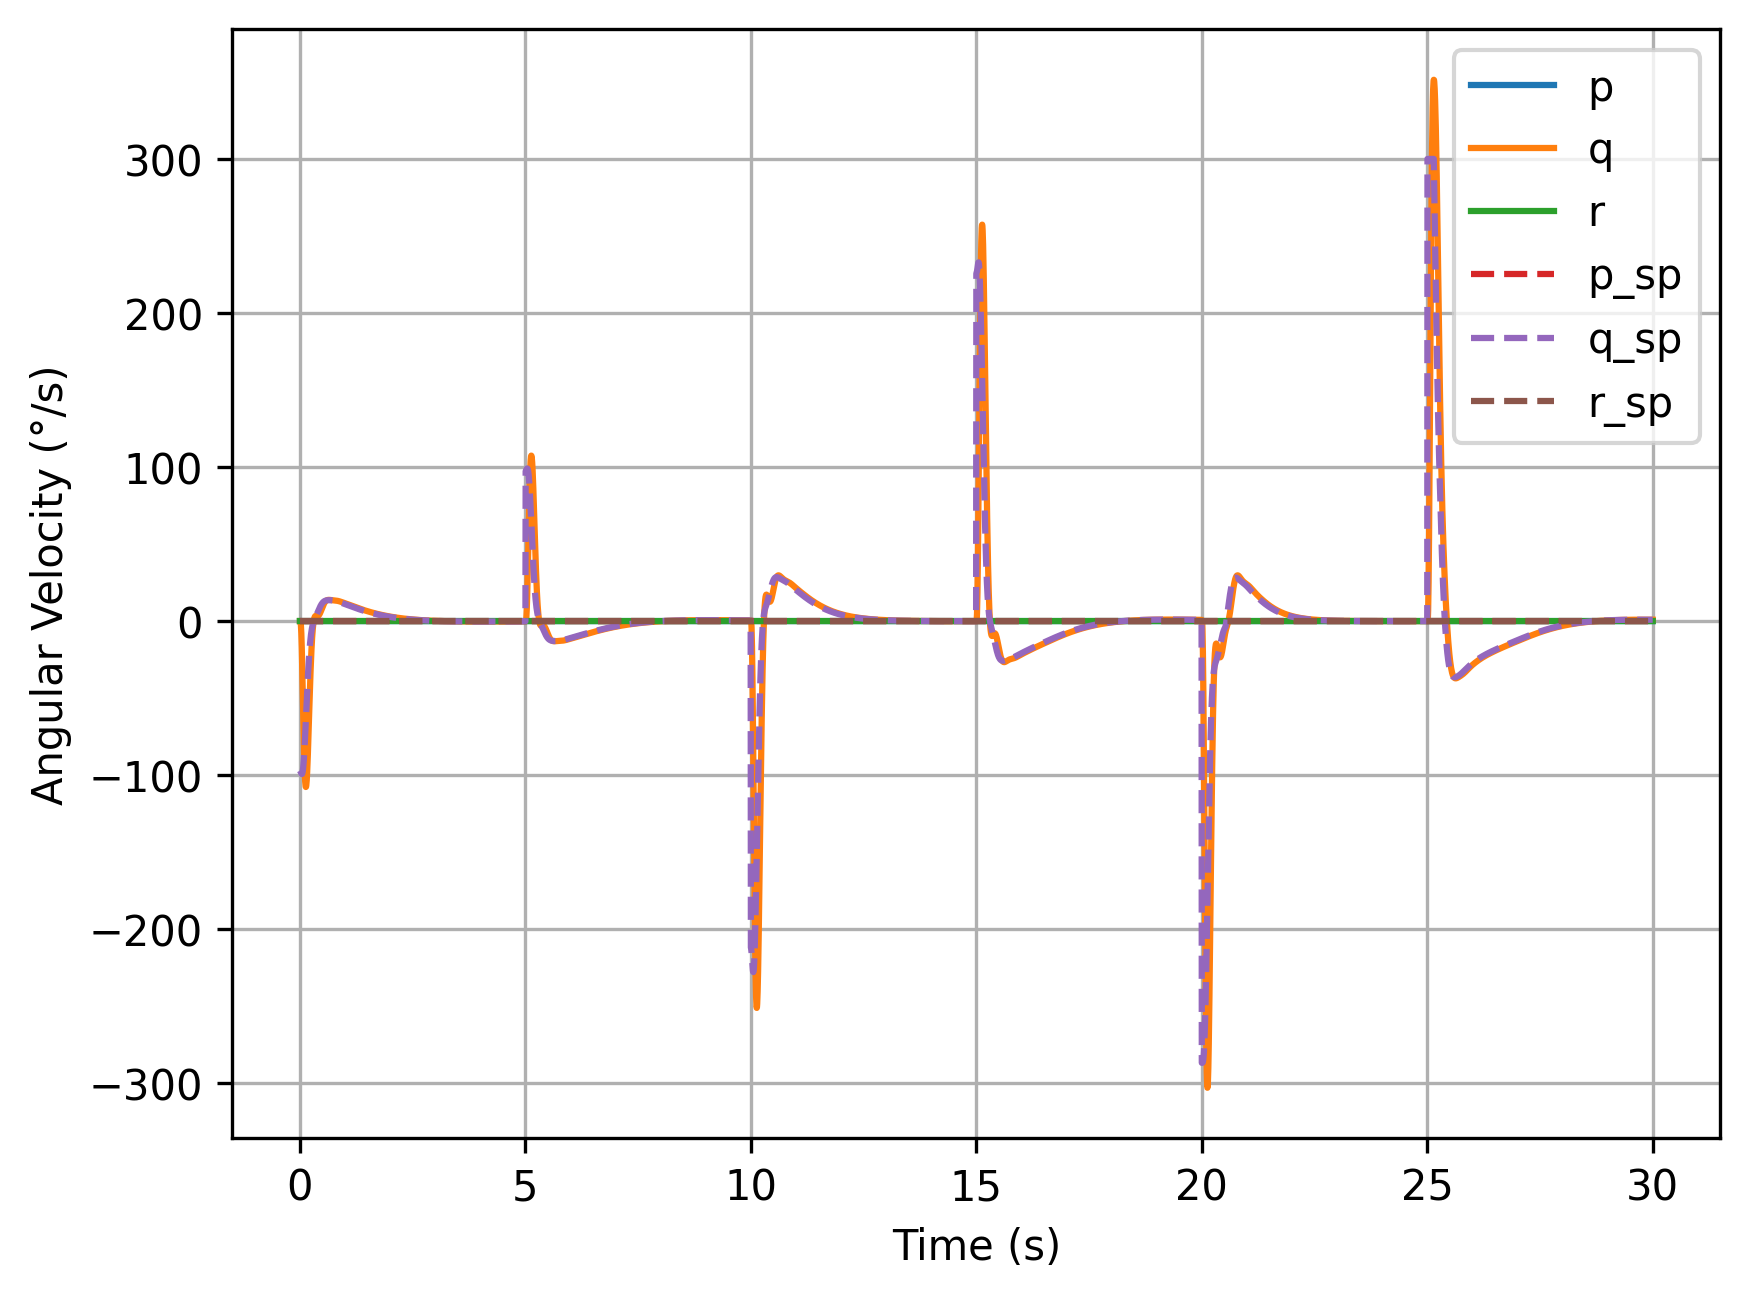
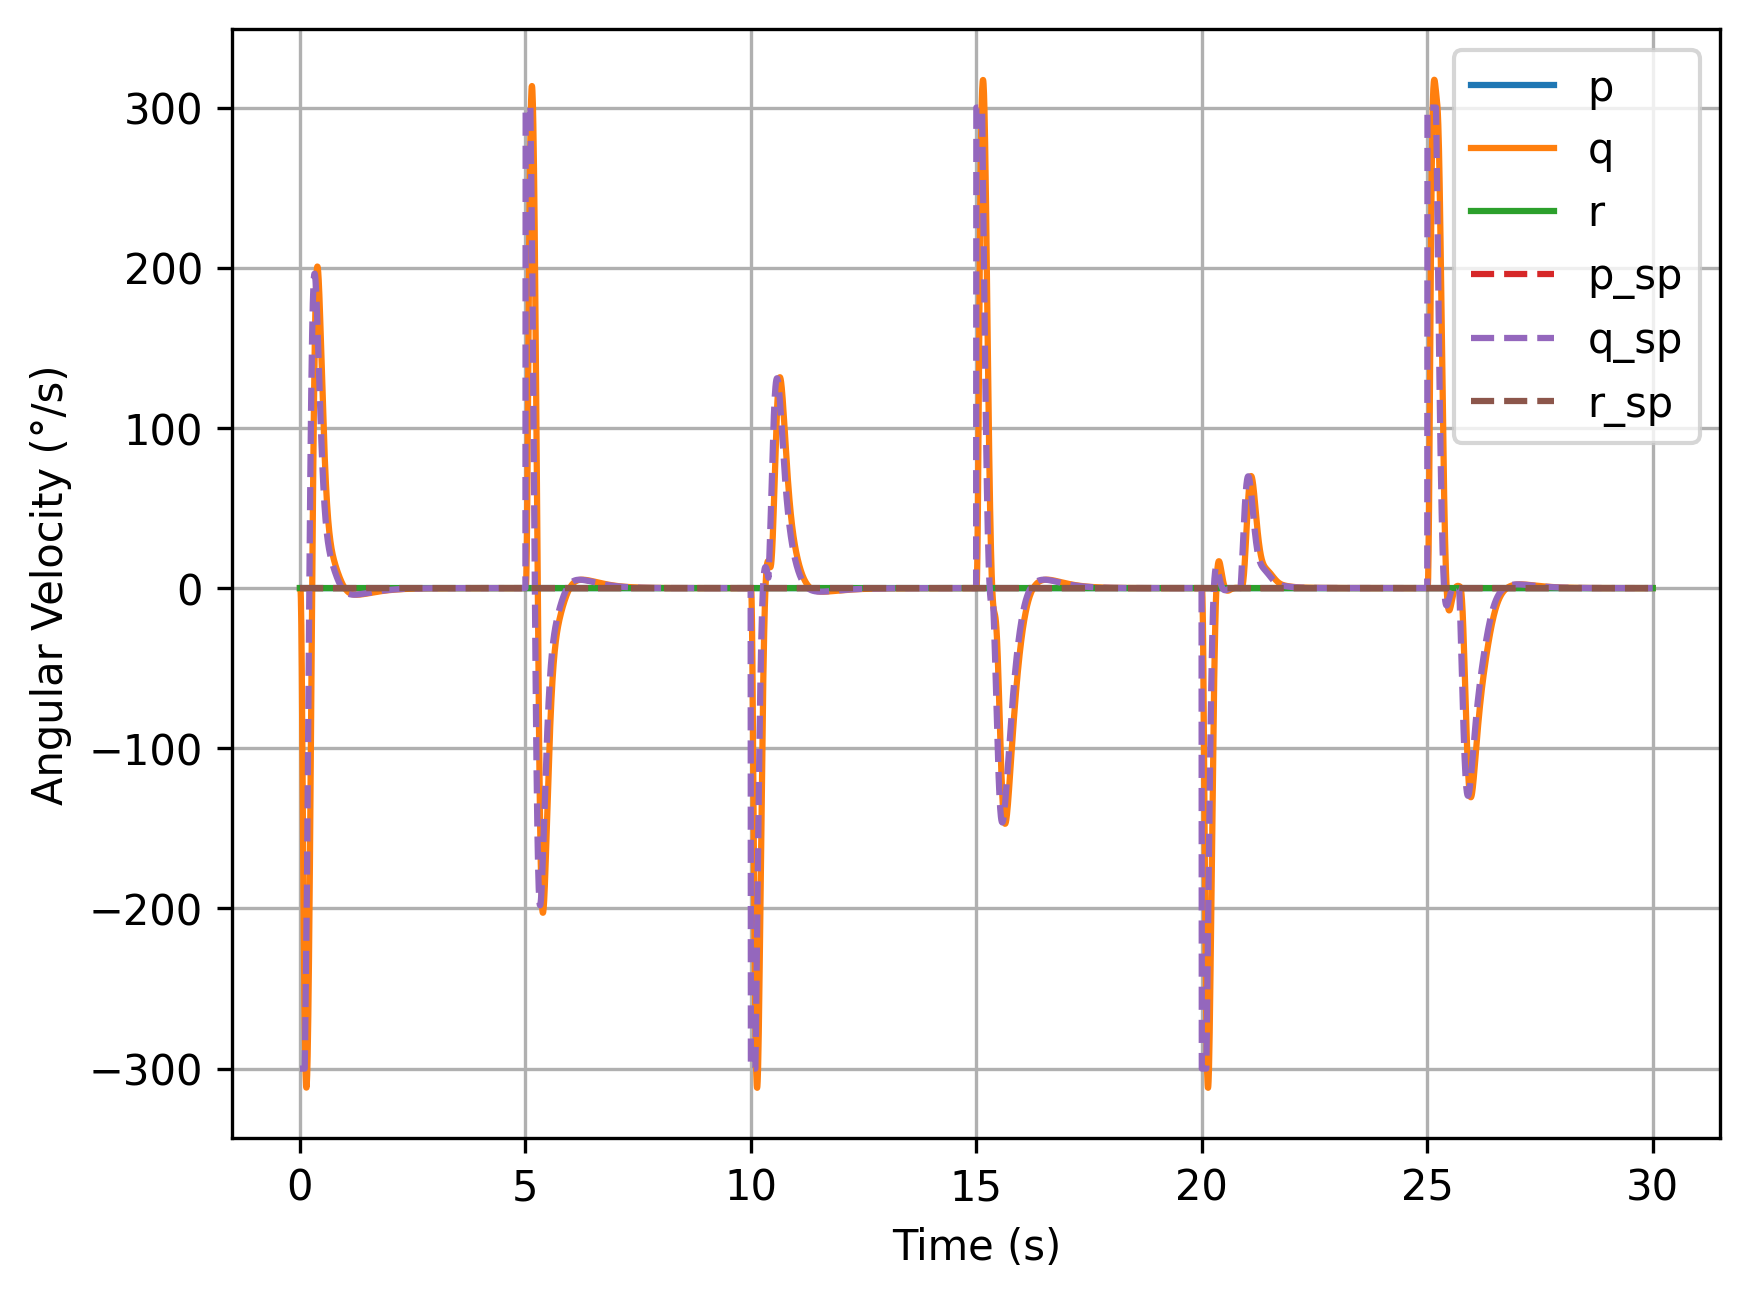
微调 action门控阈值

diff --git a/px4Env.py b/px4Env.py
@@ -72,7 +72,7 @@ class QuadcopterEnv(gym.Env):
 
         # ==================== 动作空间模式（直接式 vs 增量式） ====================
         self.enable_smooth_transition = True   # train时不用Smooth，测试时用Smooth过渡
-        self.alpha = 0.8                        # EMA平滑系数（仅用于平滑过渡，不影响最终收敛）
+        self.alpha = 0.1                       # EMA平滑系数（0:无平滑，1:强平滑）
         
         # 奖励缩放因子
         self.reward_scale = 0.01 #将奖励从[-10000,0]缩放到[-100,0]
@@ -130,8 +130,8 @@ class QuadcopterEnv(gym.Env):
             W_pid_change=0.0,   #1.0,   
         )
         #  速度跟踪成功阈值
-        self.vel_tracking_excellent_threshold = 0.2   # m/s（精确跟踪）
-        self.vel_tracking_good_threshold = 0.5        # m/s（良好跟踪）
+        self.vel_tracking_excellent_threshold = 0.1   # m/s（精确跟踪）
+        self.vel_tracking_good_threshold = 0.3        # m/s（良好跟踪）
         self.vel_tracking_poor_threshold = 1.0        # m/s（较差跟踪）
 
         #  分档奖励系数
@@ -206,9 +206,9 @@ class QuadcopterEnv(gym.Env):
         # ==================== 基线PID参数（初始化为中值，并应用到ctrl） ====================
         self.pid_K_prev_vec = np.array([
             1.0, 0.8,                   # pos_P_gains: Pxy, Pz
-            12, 8.5,                   # vel_P_gains: Pxydot, Pzdot
+            7, 8.5,                   # vel_P_gains: Pxydot, Pzdot
             10.0, 1.6,                  # vel_I_gains: Ixydot, Izdot
-            1.5, 1.0,                  # vel_D_gains: Dxydot, Dzdot
+            0.3, 1.0,                  # vel_D_gains: Dxydot, Dzdot
             8.0, 8.0, 2.75,             # att_P_gains: Pphi, Ptheta, Ppsi
             0.5, 0.5, 0.305,            # rate_P_gains: Pp, Pq, Pr
             3.0, 3.0, 5.0,              # rate_I_gains: Ip, Iq, Ir
@@ -404,9 +404,9 @@ class QuadcopterEnv(gym.Env):
         
         # 可选：平滑过渡（EMA 低通滤波）
         if self.enable_smooth_transition:
-            # alpha ∈ (0, 1]: alpha=1 无平滑，alpha→0 强平滑
+            # alpha ∈ (0, 1]: alpha=0 无平滑，alpha→1 强平滑
             alpha = float(np.clip(self.alpha, 1e-6, 1.0))
-            K_new_vec = (1.0 - alpha) * K_prev_vec + alpha * K_target
+            K_new_vec = alpha * K_prev_vec + (1.0 - alpha) * K_target
         else:
             K_new_vec = K_target
         
@@ -493,7 +493,7 @@ class QuadcopterEnv(gym.Env):
         # ============================================================
         thresh1 = 0.03      # 小误差冻结阈值
         thresh2 = 0.3      # 大误差放开阈值
-        limit_delta = 0.2  # 限幅范围
+        limit_delta = 0.5  # 限幅范围
 
         # ============================================================
         # 通用门控函数（闭包，可访问外部变量）

diff --git a/ctrl.py b/ctrl.py
@@ -28,9 +28,9 @@ class Control:
         # Set PID Gains and Max Values
         self.pos_P_gain = np.array([1.0, 1.0, 0.8])
 
-        self.vel_P_gain = np.array([12.0, 12.0, 8.5])
-        self.vel_I_gain = np.array([10.0, 10.0, 1.6])
-        self.vel_D_gain = np.array([1.5, 1.5, 1.0])
+        self.vel_P_gain = np.array([7, 7, 8.5])
+        self.vel_I_gain = np.array([10, 10, 1.6])
+        self.vel_D_gain = np.array([0.3, 0.3, 1.0])
 
         self.att_P_gain = np.array([8, 8, 2.75])
 
